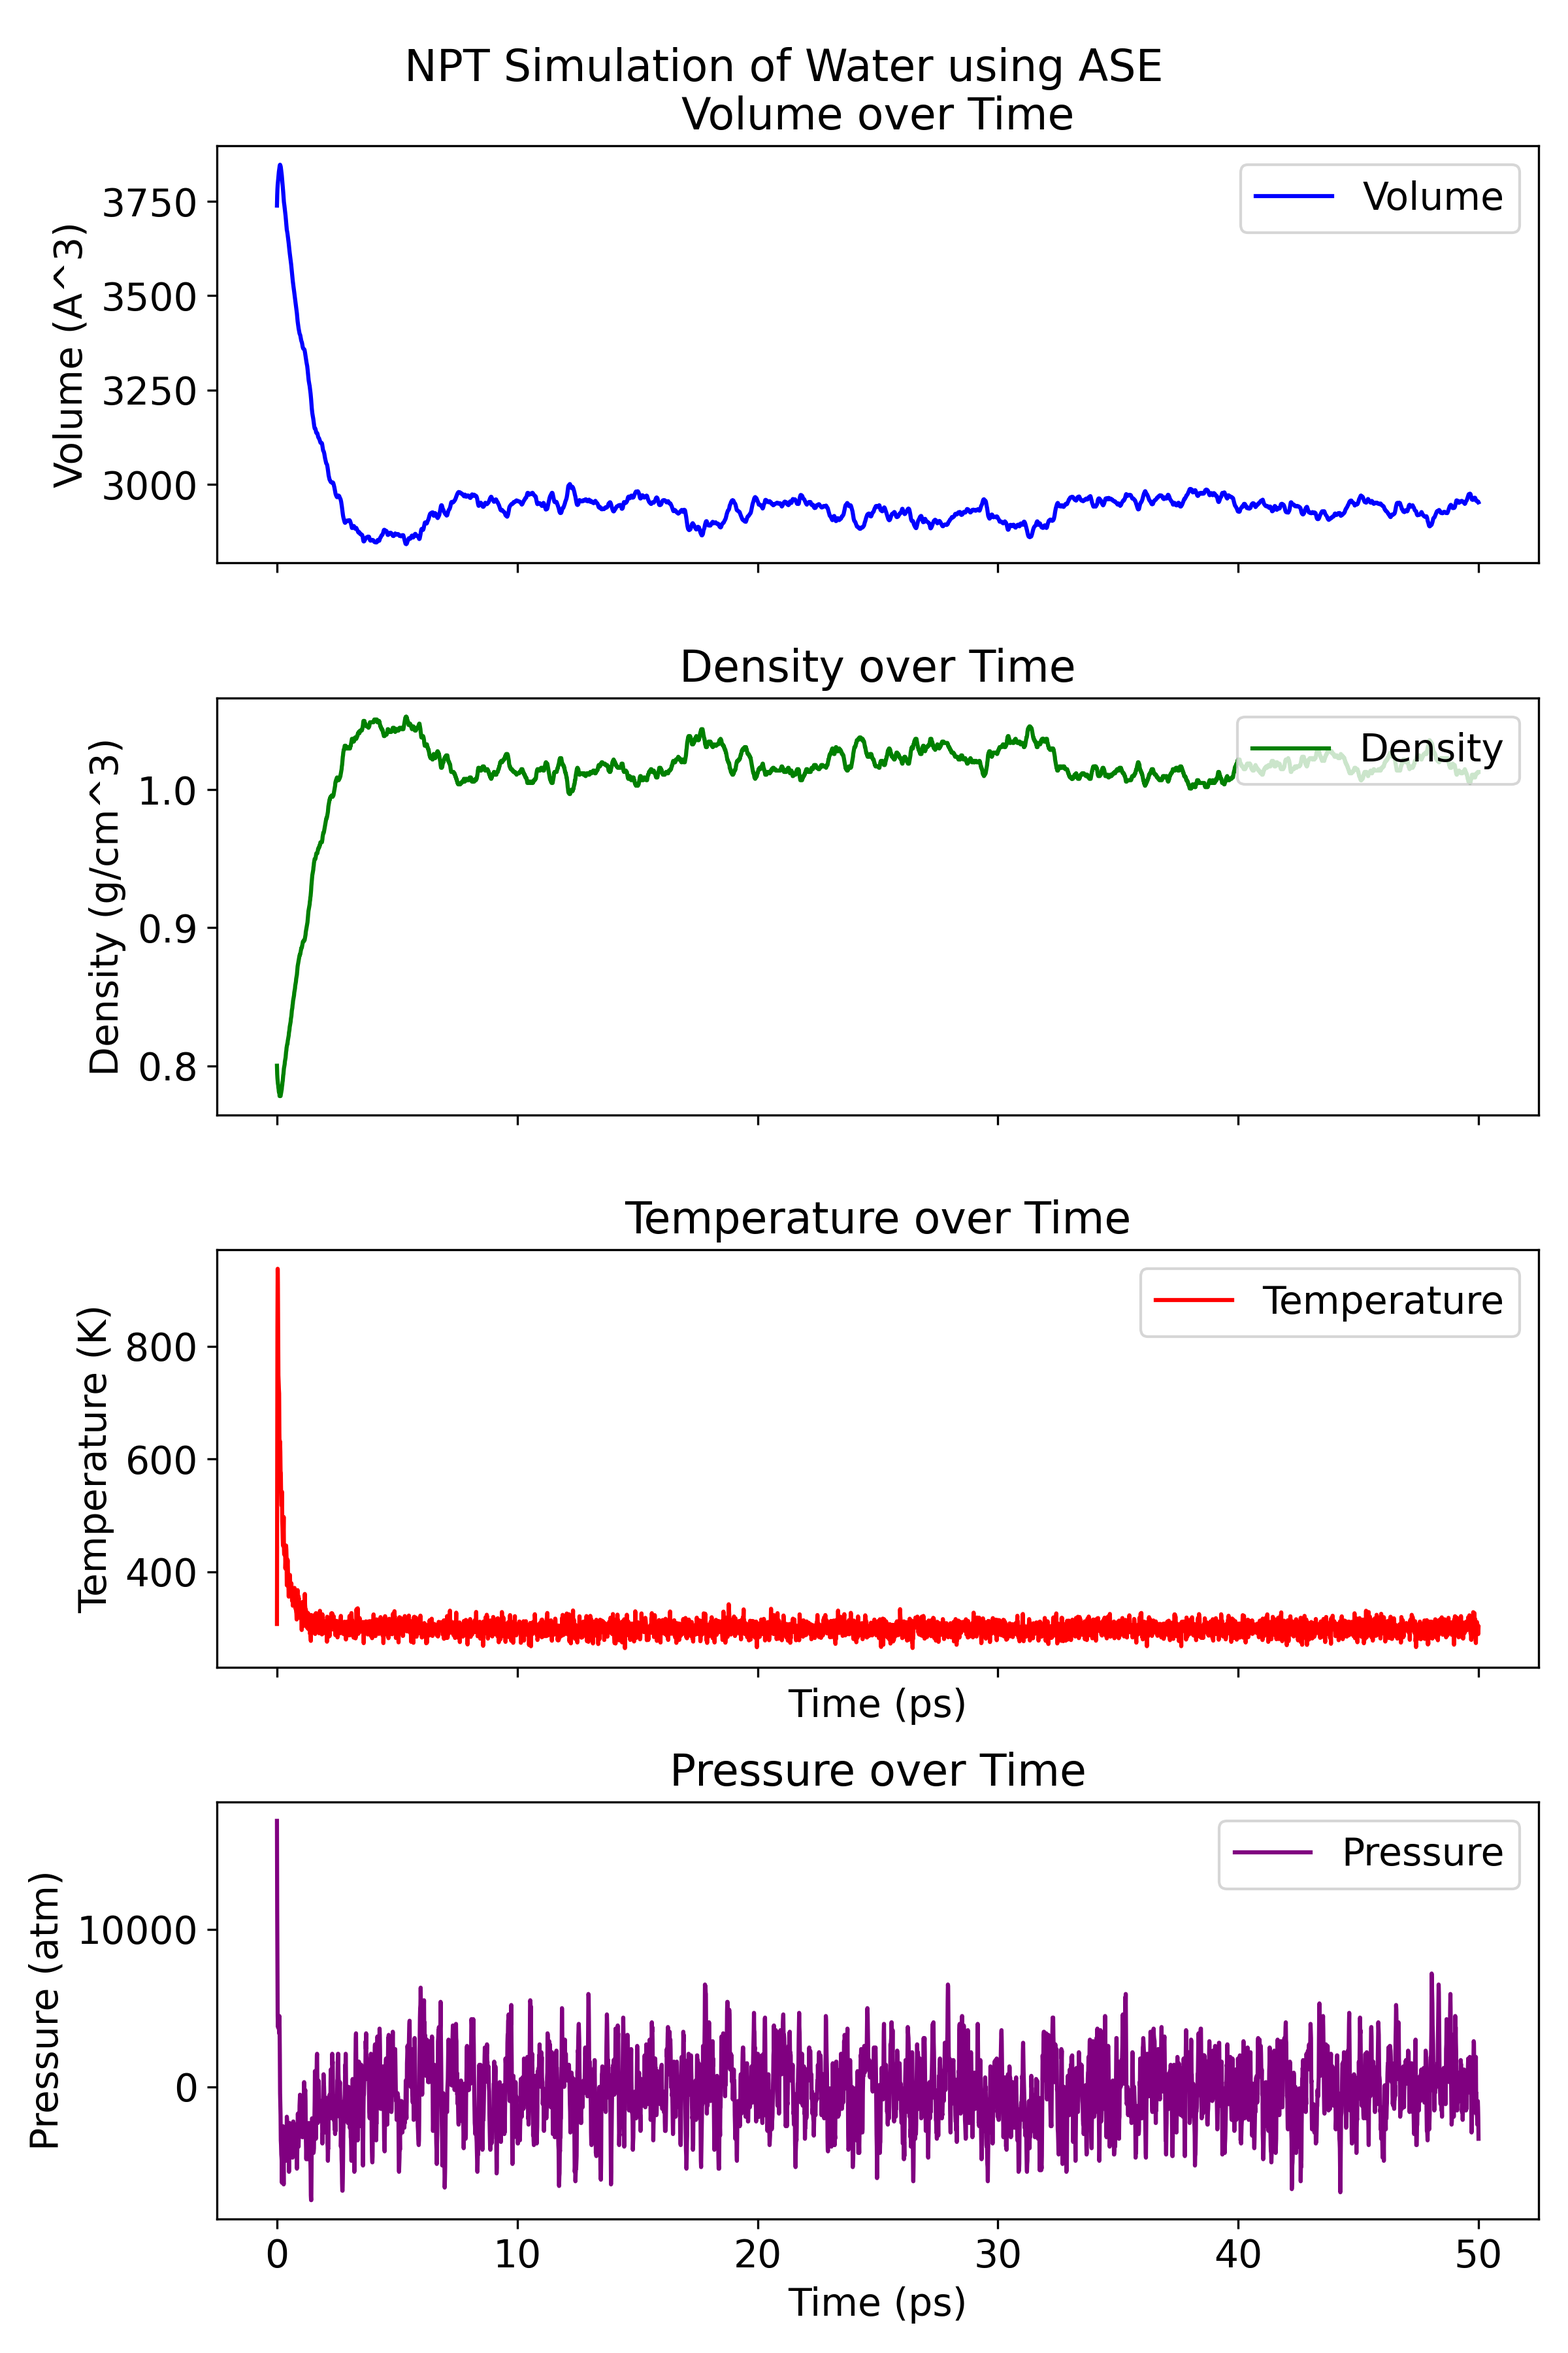
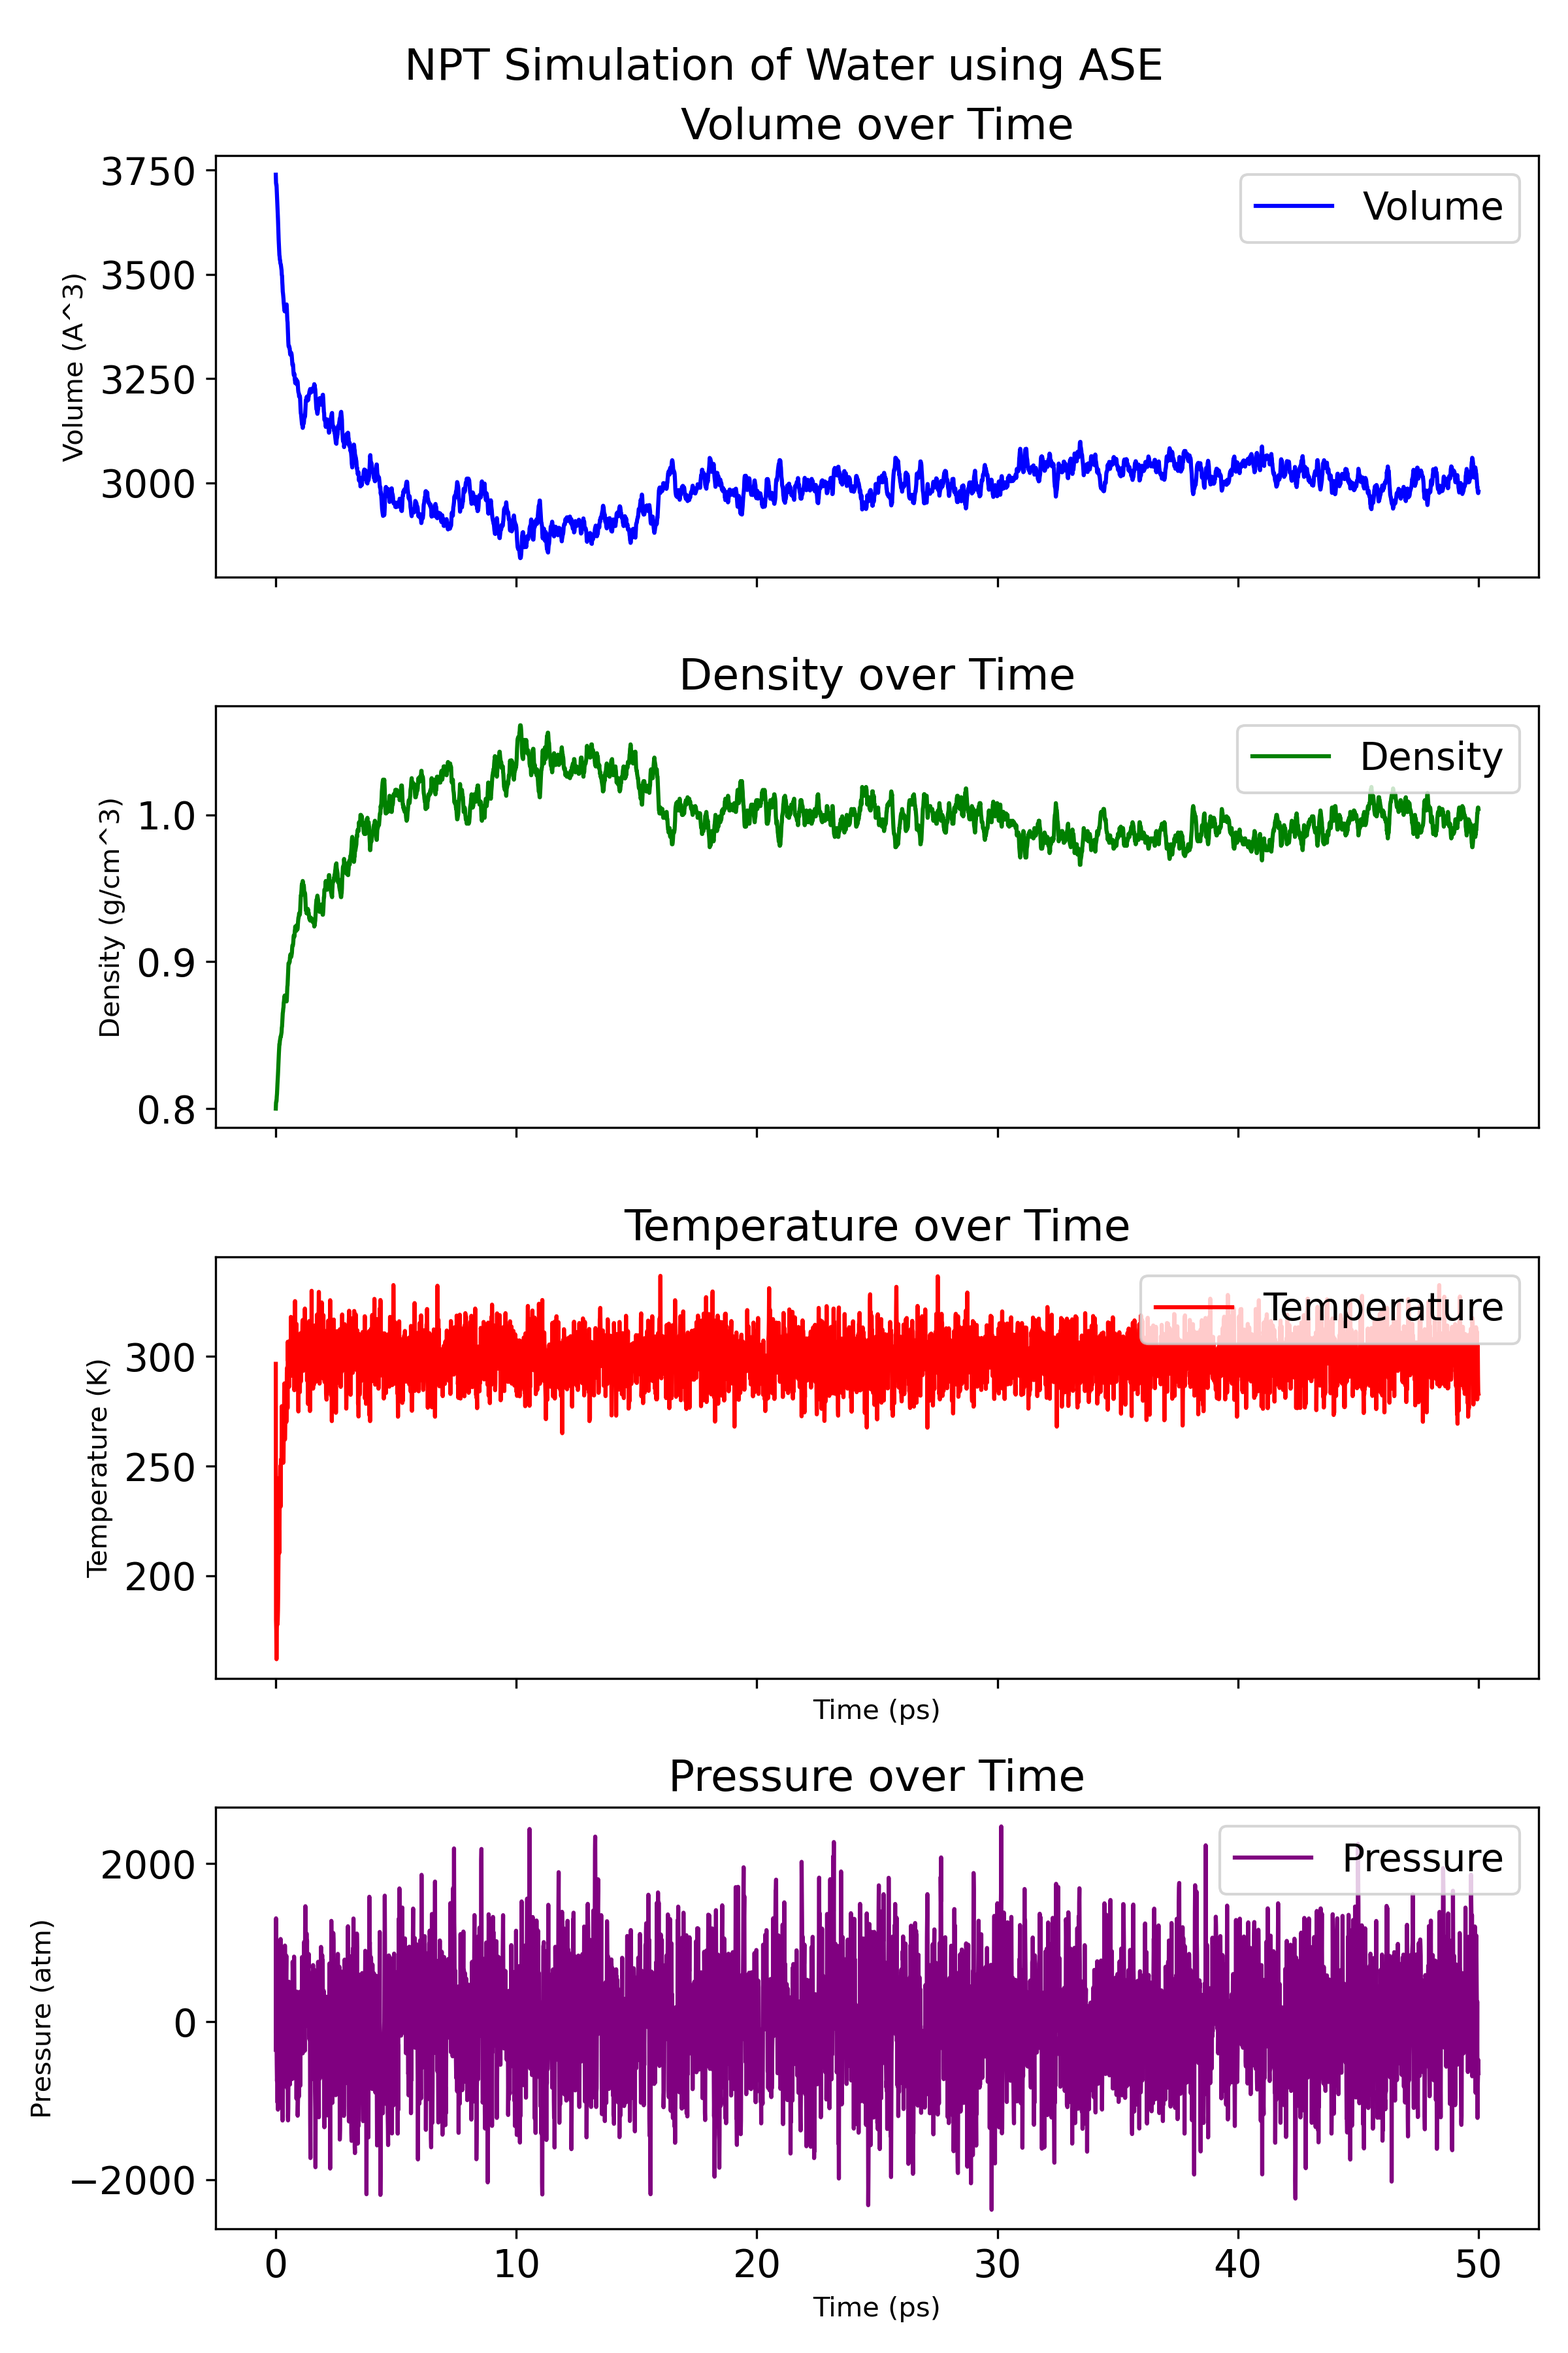
Update water-NPT ase result (#76)
* Update water-NPT ase result

* update ase plot

diff --git a/examples/water-NPT/run_ase.py b/examples/water-NPT/run_ase.py
@@ -187,7 +187,7 @@ def run(pdb_file, pbc=False, use_double=True, use_cuaev=False, repulsion=False, 
         temperature_K=300,
         taut=0.1 * 1000 * units.fs,
         pressure_au=1.0 * units.bar,
-        taup=1.0 * 1000 * units.fs,
+        taup=0.1 * 1000 * units.fs,
         compressibility_au=4.57e-5 / units.bar,
         trajectory=trajfile,
         loginterval=100,
